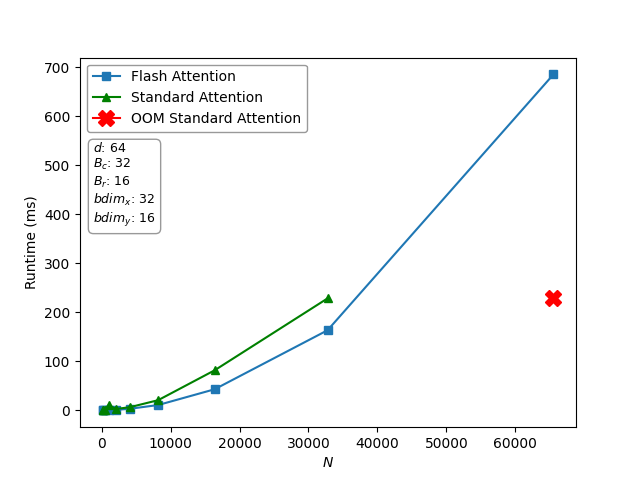
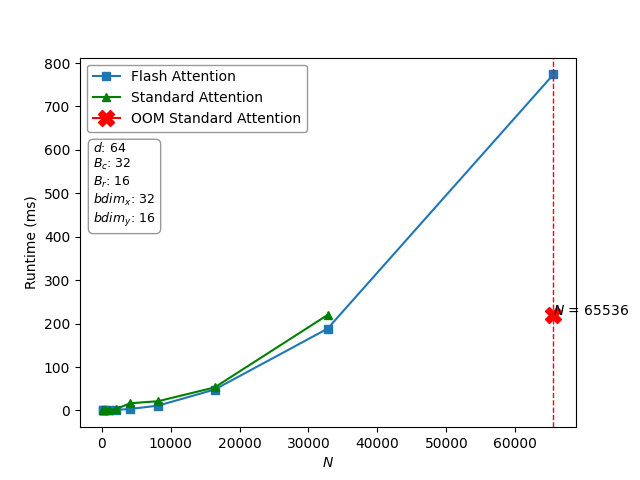
improved oom plot a bit

diff --git a/project/python/plotting_out_of_memory.py b/project/python/plotting_out_of_memory.py
@@ -84,6 +84,8 @@ def main():
             markersize=12,
             label="OOM Flash Attention"
         )
+        plt.text(x_oom_err_flash - 0.1, y_oom_err_flash - 0.1, fr"$N$ = {x_oom_err_flash}")
+        plt.axvline(x=x_oom_err_flash, color='orange', linestyle='--', linewidth=1)
     else:
         plt.plot(
             seq_lens, 
@@ -110,6 +112,8 @@ def main():
             markersize=12,
             label="OOM Standard Attention"
         )
+        plt.text(x_oom_err_standard - 1.2, y_oom_err_standard - 1.2, fr"$N$ = {x_oom_err_standard}")
+        plt.axvline(x=x_oom_err_standard, color='r', linestyle='--', linewidth=1)
     else:
         plt.plot(
             seq_lens, 
